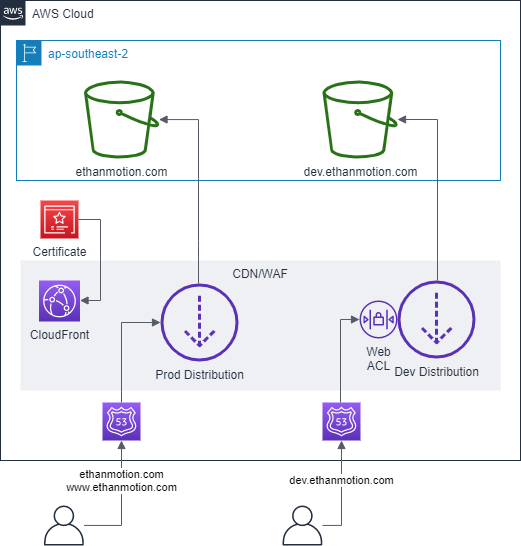
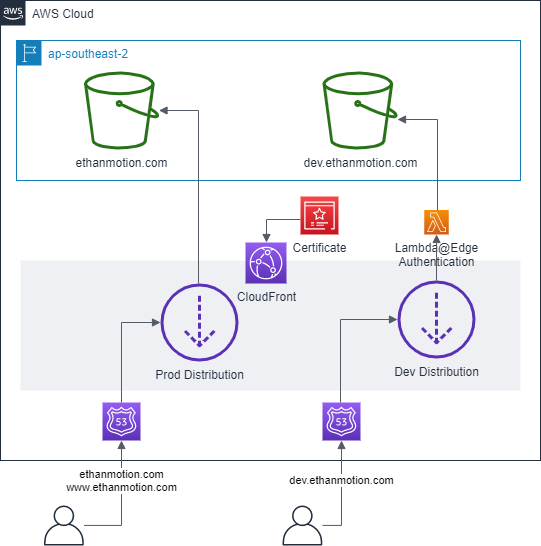
Add arch diagram and update readme

diff --git a/README.md b/README.md
@@ -1,5 +1,5 @@
 # What's this?
-This repo is source control for my personal website (http://ethanmotion.com).
+This repo is source control for my personal website (http://ethanmotion.com), open to the internet.
 
 ## Architecture
 ![architecture](architecture_diagram.png)
@@ -8,7 +8,7 @@ This repo is source control for my personal website (http://ethanmotion.com).
 Deployment is done locally at the moment, to both my dev environment, and production. Source can be either local, or what's in GitHub master branch.
 
 ### Development
-**dev.ethanmotion.com**. This is my pre-production website, which is restricted to my personal IP address.
+**dev.ethanmotion.com**. This is my pre-prod website. Access is restricted using a CloudFront distribution with an attached Lambda@Edge Lambda, requiring authentication to pass through.
 
 ### Production
-**ethanmotion.com** and **www.ethanmotion.com**. These are my production websites, which are open to the internet.
+**ethanmotion.com** and **www.ethanmotion.com** both route to my ethanmotion.com bucket.
